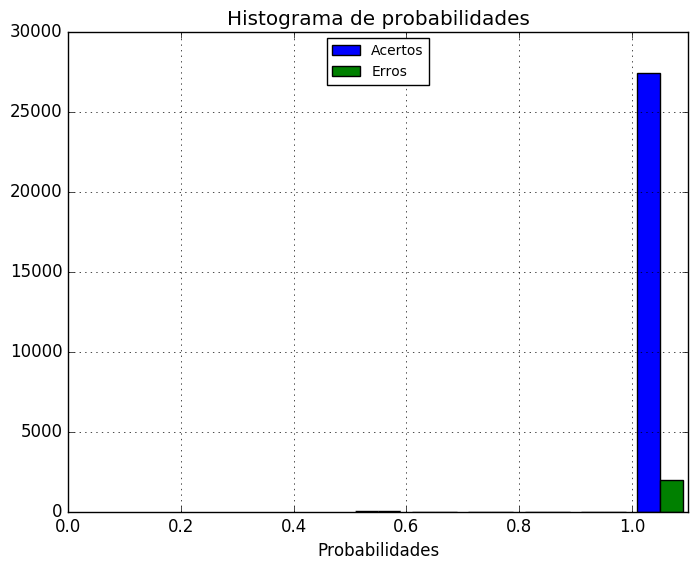
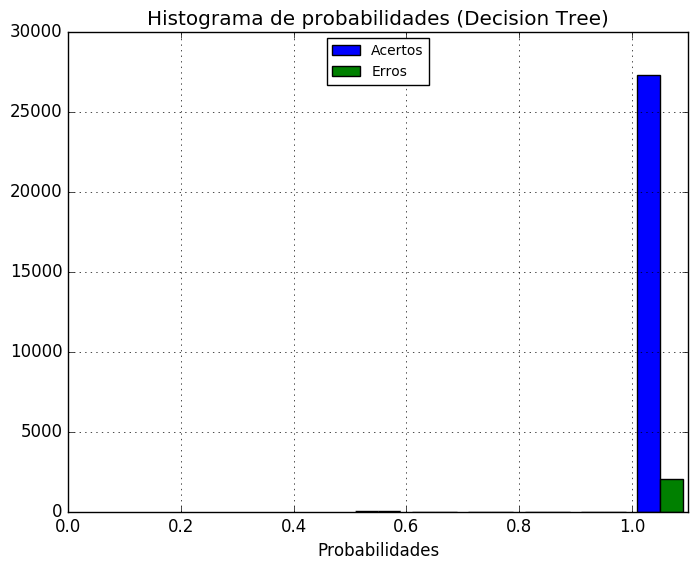
wip

Changed region(s): [[0.2106, 0.0, 0.8725, 0.0596], [0.9327, 0.8351, 0.9928, 0.8649], [0.9026, 0.1193, 0.9628, 0.1491]]

diff --git a/trab1/part3/arvore.py b/trab1/part3/arvore.py
@@ -48,7 +48,7 @@ if __name__ == "__main__":
 
     plt.xlabel('Probabilidades')
     plt.xlim(0, 1.1)
-    plt.title('Histograma de probabilidades')
+    plt.title('Histograma de probabilidades (Decision Tree)')
     plt.grid(True)
     plt.legend(prop={'size': 10}, loc='upper center')
 

diff --git a/trab1/part3/nb.py b/trab1/part3/nb.py
@@ -59,7 +59,7 @@ if __name__ == "__main__":
     )
 
     plt.xlabel('Probabilidades')
-    plt.title('Histograma de probabilidades')
+    plt.title('Histograma de probabilidades (Naive Bayes)')
     plt.grid(True)
     plt.legend(prop={'size': 10}, loc='upper center')
 
